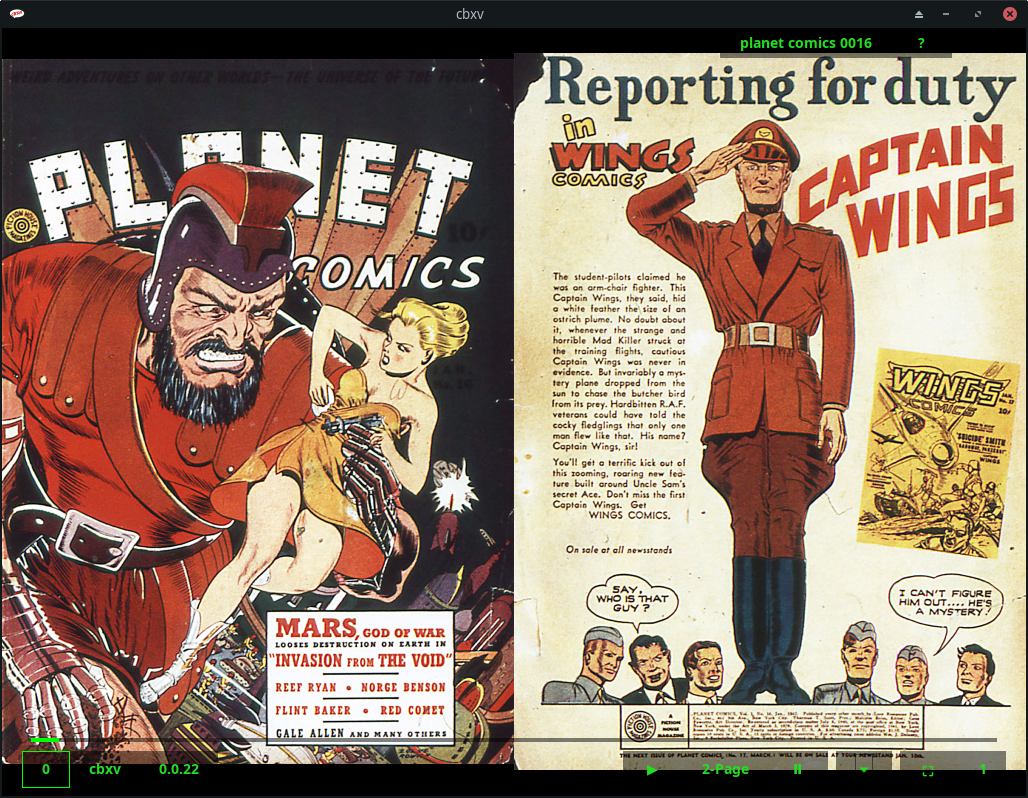
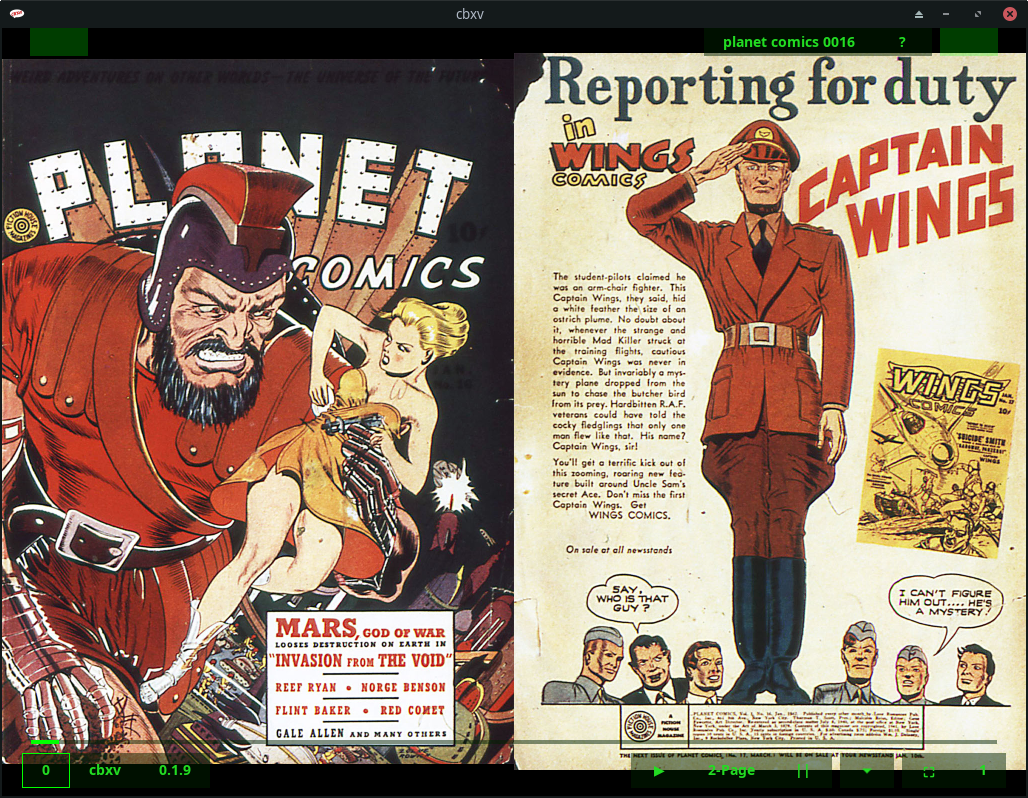
Updated all screenshots Finished first pass through manual Minor version number bump

diff --git a/cmd/cbxv/main.go b/cmd/cbxv/main.go
@@ -13,7 +13,7 @@ import (
 
 const (
     NAME    = "cbxv"
-    VERSION = "0.1.9"
+    VERSION = "0.2.0"
 )
 
 // Update listens for message on the message channel and

diff --git a/docs/index.md b/docs/index.md
@@ -64,7 +64,7 @@ Excelsior!
 
 ## Interface Elements
 
-<img align="center" width="496" src="prg_elements-03.png">
+<img align="center" width="496" src="prg_elements-04.png">
 
 ## Commands
 
